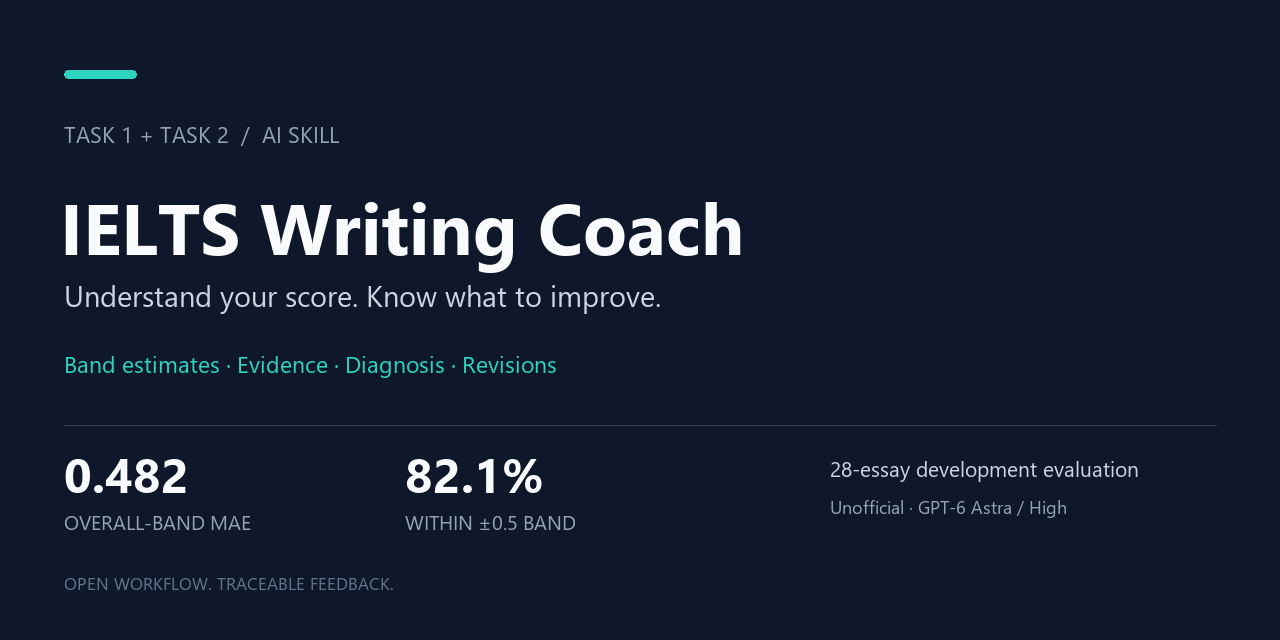
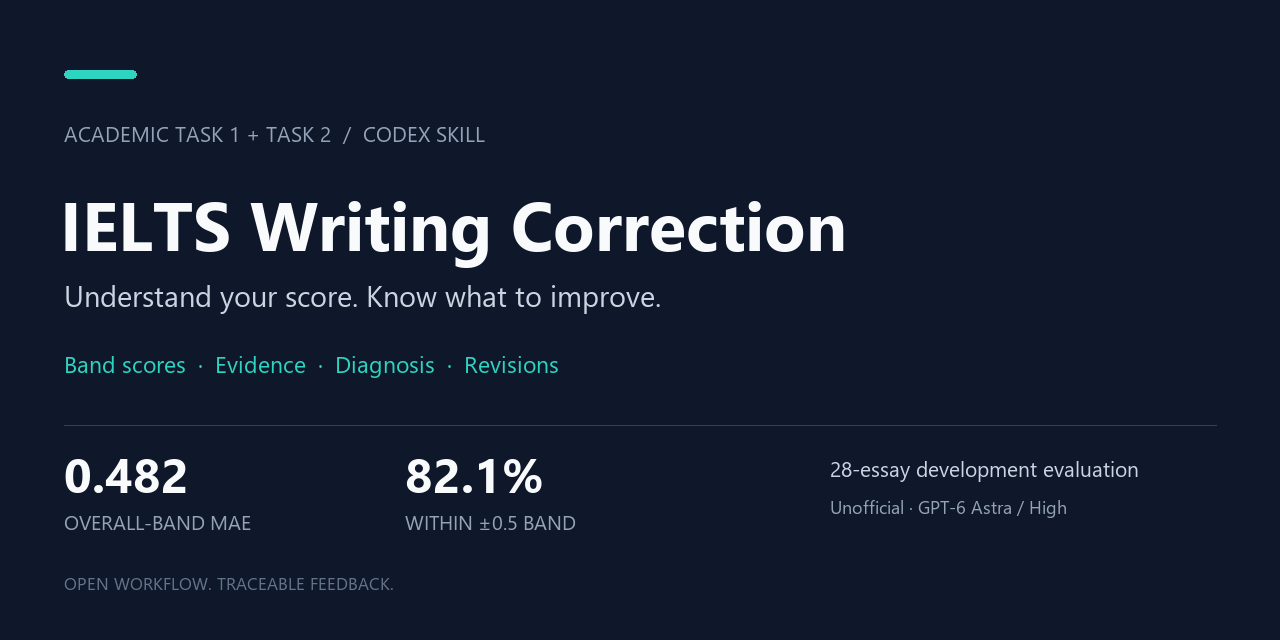
Improve discoverability and publish v1.0.0

Changed region(s): [[0.0312, 0.3125, 0.6562, 0.4375], [0.0938, 0.5625, 0.4375, 0.5938], [0.0312, 0.1875, 0.375, 0.2188]]

diff --git a/scripts/render_preview.py b/scripts/render_preview.py
@@ -18,10 +18,10 @@ def text(x,y,value,size,color='#f8fafc',bold=False):
     if box[2]>1230 or box[3]>625:raise ValueError(f'Text would clip: {value}')
     draw.text((x,y),value,fill=color,font=font)
 draw.rounded_rectangle((64,70,136,78),radius=4,fill='#2dd4bf')
-text(64,119,'TASK 1 + TASK 2  /  AI SKILL',22,'#94a3b8')
-text(60,177,'IELTS Writing Coach',72,bold=True)
+text(64,119,'ACADEMIC TASK 1 + TASK 2  /  CODEX SKILL',21,'#94a3b8')
+text(60,177,'IELTS Writing Correction',68,bold=True)
 text(64,275,'Understand your score. Know what to improve.',29,'#cbd5e1')
-text(64,348,'Band estimates · Evidence · Diagnosis · Revisions',23,'#2dd4bf')
+text(64,348,'Band scores  ·  Evidence  ·  Diagnosis  ·  Revisions',23,'#2dd4bf')
 draw.line((64,425,1216,425),fill='#334155',width=1)
 text(64,441,'0.482',48,bold=True)
 text(64,508,'OVERALL-BAND MAE',20,'#94a3b8')

diff --git a/README.md b/README.md
@@ -1,39 +1,50 @@
-⭐ **觉得好用的话，点个 [Star](https://github.com/Li2882/best-ielts-writing-skill) 支持一下！** · If this helps, please give it a star!
+⭐ **觉得有帮助，欢迎给项目点个 [Star](https://github.com/Li2882/best-ielts-writing-skill)！** · If this helps, please star the project.
 
-# IELTS Writing Coach
+# IELTS Writing Correction for Academic Task 1 & 2
 
-**最好的雅思批改 Skill · The best IELTS writing review skill**
+## 雅思大小作文批改 · Band Score Review · The best IELTS writing review Codex Skill
 
-比大多数现有的雅思批改 Skill 更好。 · Better than most existing IELTS writing review skills.
+**四项估分、原文证据、错误诊断、修改建议。**
 
-![IELTS Writing Coach](assets/cover.svg)
+比大多数现有的雅思批改 Skill 更好。它面向 IELTS Academic Writing Task 1/Task 2：保留作文原文，分别评估 TA/TR、CC、LR、GRA，再用同任务锚点作文校准分数，给出可核对、可执行的反馈。
 
-## 中文
+![IELTS Writing Correction Codex Skill](assets/cover.svg)
 
-批改 IELTS Academic 大小作文：**四项估分、原文证据、错误诊断、修改建议**。区分真实错误与可选润色，让你知道分数从哪里来、下一稿怎么改。[真实示例](examples/review.md)
+## What it does · 能做什么
 
-**工作方式：**先由大模型分别评估四项，再用同任务锚点作文进行证据校准，最后输出可追溯的分数和修改建议。
+- **Band score review**：四项分项估分、原始初评、锚点调整、最终模拟分。
+- **Evidence-based correction**：引用原文定位真实错误，区分错误、档位限制和可选润色。
+- **Task 1 / Task 2 feedback**：Task 1 核对原图与数据；Task 2 核对完整题目、观点和展开。
+- **Actionable revision advice**：按提分影响排序，给出三个优先修改方向。
+- **Traceable output**：列出实际读取的标准、提示词、锚点、缺项和校准状态。
 
-**28 篇开发测试：总分 MAE 0.482；82.1% 的作文误差不超过 0.5 分。**
+## How it works · 工作方式
 
-外部 Skill 历史实测：quyen244 **0.857**、Gishguo **0.946**（7 篇、四项 MAE）。与本版测试集及指标不同，不作直接胜负结论。[完整对比与研究过程](docs/research.md)
+先由大模型分别评估四项，再读取同任务、同维度的锚点作文进行证据校准，最后输出可追溯的分数和修改建议。评分库、原始提示词和被引用校准证据已随仓库提供；下载后可直接在 Codex 中运行。
 
-**使用：**下载本项目，在 Codex 打开文件夹，选择 **GPT-6 Astra / High 或更高推理档**，发送：
+## Validation · 真实测试
+
+28 篇开发回归（`gpt-6-astra`、`high`）：总分 MAE **0.482**，误差不超过 0.5 分的比例 **82.1%**。对照资料中的 quyen244 **0.857**、Gishguo **0.946** 是 7 篇、四项 MAE，与本版整体带分 MAE 不同，不作直接排名；完整方法、数据和限制见[研究过程](docs/research.md)。
+
+## Start in Codex · 开始使用
+
+1. 下载仓库并在 Codex 中打开**整个项目根目录**。
+2. 使用 **GPT-6 Astra / High** 或更高推理档。
+3. 输入：
 
 ```text
-请使用 $ielts-writing-review-final 批改下面的作文。
-题目／Task 1 原图：……
-作文原文：……
+请使用 $ielts-writing-review-final 批改下面的 IELTS Academic 作文。
+完整题目：……
+Task 1 原图（如适用）：……
+未经修改的作文原文：……
 ```
 
-本项目推荐最低配置为 GPT-6 Astra / High；换模型需重新验证。评分库及被引用的校准证据已随仓库提供；模拟估分，非官方成绩，模型费用另计。
+Task 1 必须提供原图或完整、已核实的数据；Task 2 必须提供完整题目。运行前可执行 `python scripts/check_ready.py` 检查评分依赖。详细说明见[使用指南](docs/usage.md)，完整批改示例见[真实示例](examples/review.md)。
+
+本项目提供非官方模拟估分，不替代认证考官成绩；更换模型或推理档后，README 中的测试结果不自动继承。
 
 ## English
 
-IELTS Academic Task 1 & 2 feedback: **four-criterion band estimates, quoted evidence, error diagnosis, and actionable revisions**. [See a real review](examples/review.md).
+IELTS Academic Writing Correction and Band Score Review for Task 1 and Task 2. The skill provides four-criterion estimates, quoted evidence, error diagnosis, anchor calibration, and prioritized revision advice. Open the whole repository in Codex and invoke `$ielts-writing-review-final`. Recommended minimum: **GPT-6 Astra / High**.
 
-**How it works:** the model scores the four criteria independently first, then calibrates each score against same-task anchor essays before producing traceable bands and revision advice.
-
-**28-essay development evaluation: overall-band MAE 0.482; 82.1% within ±0.5 band.** Earlier external-prompt results: quyen244 **0.857**, Gishguo **0.946** (7 essays, criterion-level MAE). Different datasets and metrics: not a head-to-head ranking. [Research & comparisons](docs/research.md).
-
-Download this project, open it in Codex, and invoke `$ielts-writing-review-final` with the question, original essay, and Task 1 chart. Recommended minimum: **GPT-6 Astra / High**. The scoring library and referenced calibration evidence are included. Unofficial estimates; model costs apply.
+Scoring rules, the reference library, and cited calibration evidence are included. Read the [usage guide](docs/usage.md), [real review](examples/review.md), and [research record](docs/research.md) before adapting the skill.

diff --git a/CHANGELOG.md b/CHANGELOG.md
@@ -1,0 +1,11 @@
+# Changelog
+
+## v1.0.0 · 2026-10-02
+
+- Published the Codex-ready `ielts-writing-review-final` skill.
+- Bundled the scoring library and referenced calibration evidence required by the current workflow.
+- Added bilingual Task 1/Task 2 correction guidance, evidence-based diagnosis, and revision priorities.
+- Added reproducible readiness and public-data checks.
+- Documented the 28-essay development evaluation and its limits.
+
+这是首个公开版本：下载后在 Codex 打开项目根目录，即可调用 `$ielts-writing-review-final`。
